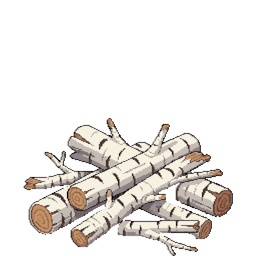
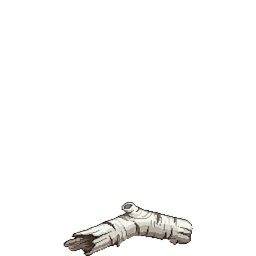
Update doodad assets and implement monument building collision checks: Replaced binary images for beach wood, bones, and stone piles. Added collision detection logic to prevent resource spawning near monument buildings in barrel and environment spawning functions, enhancing gameplay integrity.

Changed region(s): [[0.0938, 0.4375, 0.9375, 1.0]]

diff --git a/server/src/monument.rs b/server/src/monument.rs
@@ -300,6 +300,41 @@ fn is_near_alk_substation(ctx: &ReducerContext, pos_x: f32, pos_y: f32) -> bool 
 }
 
 // =============================================================================
+// MONUMENT BUILDING COLLISION - Prevents barrels/rations spawning inside buildings
+// =============================================================================
+
+/// Minimum distance from monument building centers to prevent resource spawns
+/// Simple radius check - keeps barrels/rations away from lodges, huts, etc.
+const MONUMENT_BUILDING_EXCLUSION_RADIUS: f32 = 450.0;
+const MONUMENT_BUILDING_EXCLUSION_RADIUS_SQ: f32 = MONUMENT_BUILDING_EXCLUSION_RADIUS * MONUMENT_BUILDING_EXCLUSION_RADIUS;
+
+/// Check if a part type is a "building" (structure that should block spawns)
+fn is_building_part_type(part_type: &str) -> bool {
+    matches!(part_type, "lodge" | "hut" | "hermit_hut" | "shack" | "radar" | "mound" | "drone" | "skeleton")
+}
+
+/// Checks if a position is too close to any monument building
+/// Simple distance check - prevents barrels/rations from spawning inside or near buildings
+/// 
+/// Returns true if the position is within 450px of any monument building center
+pub fn is_position_inside_monument_building(ctx: &ReducerContext, pos_x: f32, pos_y: f32) -> bool {
+    for part in ctx.db.monument_part().iter() {
+        // Only check building-type parts
+        if is_building_part_type(&part.part_type) {
+            let dx = pos_x - part.world_x;
+            let dy = pos_y - part.world_y;
+            let dist_sq = dx * dx + dy * dy;
+            
+            if dist_sq < MONUMENT_BUILDING_EXCLUSION_RADIUS_SQ {
+                return true;
+            }
+        }
+    }
+    
+    false
+}
+
+// =============================================================================
 // MONUMENT GENERATION
 // =============================================================================
 
@@ -1460,30 +1495,35 @@ pub fn generate_crashed_research_drone(
         // =============================================================================
         // CRASHED RESEARCH DRONE LAYOUT
         // =============================================================================
-        // Single crashed drone structure - the main wreckage
+        // Crashed drone structure with nearby researcher skeleton
         // Surrounded by loot (barrels, memory shards, sulfur piles, metal fragments)
         // spawned via separate functions after placement
         //
         // Layout (in local coords):
         //                    DRONE (0, 0) <- Center piece
+        //        SKELETON (-180, 120) <- Dead researcher nearby
         // =============================================================================
         
-        // Single structure: the crashed drone
-        let part_type = "drone";
-        let image_name = "hv_storage.png";
-        let offset_x = 0.0;
-        let offset_y = 0.0;
+        // Structure definitions: (part_type, image_name, offset_x, offset_y)
+        let structure_configs: [(&str, &str, f32, f32); 2] = [
+            // Crashed drone - CENTER PIECE
+            ("drone", "cd_drone.png", 0.0, 0.0),
+            // Dead researcher skeleton - southwest of drone
+            ("skeleton", "cd_skeleton.png", -180.0, 120.0),
+        ];
         
-        let part_world_x = center_world_x + offset_x;
-        let part_world_y = center_world_y + offset_y;
+        for (part_type, image_name, offset_x, offset_y) in structure_configs.iter() {
+            let part_world_x = center_world_x + offset_x;
+            let part_world_y = center_world_y + offset_y;
+            
+            // Place the structure
+            drone_parts.push((part_world_x, part_world_y, image_name.to_string(), part_type.to_string()));
+            
+            log::info!("🛸✨ PLACED {} ({}) at ({:.0}, {:.0}) ✨",
+                       part_type.to_uppercase(), image_name, part_world_x, part_world_y);
+        }
         
-        // Place the structure
-        drone_parts.push((part_world_x, part_world_y, image_name.to_string(), part_type.to_string()));
-        
-        log::info!("🛸✨ PLACED {} ({}) at ({:.0}, {:.0}) ✨",
-                   part_type.to_uppercase(), image_name, part_world_x, part_world_y);
-        
-        log::info!("🛸 Crashed research drone generation complete: {} structure", drone_parts.len());
+        log::info!("🛸 Crashed research drone generation complete: {} structures", drone_parts.len());
     } else {
         log::warn!("🛸 Failed to select crashed research drone position");
     }

diff --git a/server/src/barrel.rs b/server/src/barrel.rs
@@ -630,6 +630,11 @@ pub fn spawn_barrel_clusters_scaled(
                         }
                     }
                     
+                    // Check collision with monument buildings
+                    if !too_close && crate::monument::is_position_inside_monument_building(ctx, ration_x, ration_y) {
+                        too_close = true;
+                    }
+                    
                     if !too_close {
                         let chunk_idx = crate::environment::calculate_chunk_index(ration_x, ration_y);
                         match crate::military_ration::spawn_military_ration_with_loot(ctx, ration_x, ration_y, chunk_idx) {
@@ -776,6 +781,11 @@ pub fn spawn_barrel_clusters(
                         }
                     }
                     
+                    // Check collision with monument buildings
+                    if !too_close && crate::monument::is_position_inside_monument_building(ctx, ration_x, ration_y) {
+                        too_close = true;
+                    }
+                    
                     if !too_close {
                         let chunk_idx = crate::environment::calculate_chunk_index(ration_x, ration_y);
                         match crate::military_ration::spawn_military_ration_with_loot(ctx, ration_x, ration_y, chunk_idx) {
@@ -811,9 +821,10 @@ fn spawn_barrel_cluster_at_position(
     
     // For single barrel, place at center
     if cluster_size == 1 {
-        // Check for collisions
+        // Check for collisions (including monument buildings)
         if has_barrel_collision(ctx, center_x, center_y, None) ||
-           has_player_barrel_collision(ctx, center_x, center_y) {
+           has_player_barrel_collision(ctx, center_x, center_y) ||
+           crate::monument::is_position_inside_monument_building(ctx, center_x, center_y) {
             return Ok(false); // Failed to spawn cluster
         }
         
@@ -830,9 +841,10 @@ fn spawn_barrel_cluster_at_position(
             let barrel_x = center_x + offset_x;
             let barrel_y = center_y + offset_y;
             
-            // Check for collisions
+            // Check for collisions (including monument buildings)
             if has_barrel_collision(ctx, barrel_x, barrel_y, None) ||
-               has_player_barrel_collision(ctx, barrel_x, barrel_y) {
+               has_player_barrel_collision(ctx, barrel_x, barrel_y) ||
+               crate::monument::is_position_inside_monument_building(ctx, barrel_x, barrel_y) {
                 return Ok(false); // Failed to spawn cluster
             }
             

diff --git a/server/src/environment.rs b/server/src/environment.rs
@@ -3087,6 +3087,11 @@ pub fn seed_environment(ctx: &ReducerContext) -> Result<(), String> {
                 }
             }
             
+            // Check collision with monument buildings
+            if !too_close && crate::monument::is_position_inside_monument_building(ctx, world_x_px, world_y_px) {
+                too_close = true;
+            }
+            
             if !too_close {
                 let chunk_idx = calculate_chunk_index(world_x_px, world_y_px);
                 match crate::military_ration::spawn_military_ration_with_loot(ctx, world_x_px, world_y_px, chunk_idx) {
@@ -3167,6 +3172,11 @@ pub fn seed_environment(ctx: &ReducerContext) -> Result<(), String> {
                 }
             }
             
+            // Check collision with monument buildings
+            if !too_close && crate::monument::is_position_inside_monument_building(ctx, world_x_px, world_y_px) {
+                too_close = true;
+            }
+            
             if !too_close {
                 let chunk_idx = calculate_chunk_index(world_x_px, world_y_px);
                 match crate::mine_cart::spawn_mine_cart_with_loot(ctx, world_x_px, world_y_px, chunk_idx) {
@@ -3240,6 +3250,11 @@ pub fn seed_environment(ctx: &ReducerContext) -> Result<(), String> {
                         }
                     }
                 }
+            }
+            
+            // Check collision with monument buildings
+            if !too_close && crate::monument::is_position_inside_monument_building(ctx, world_x_px, world_y_px) {
+                too_close = true;
             }
             
             if !too_close {
